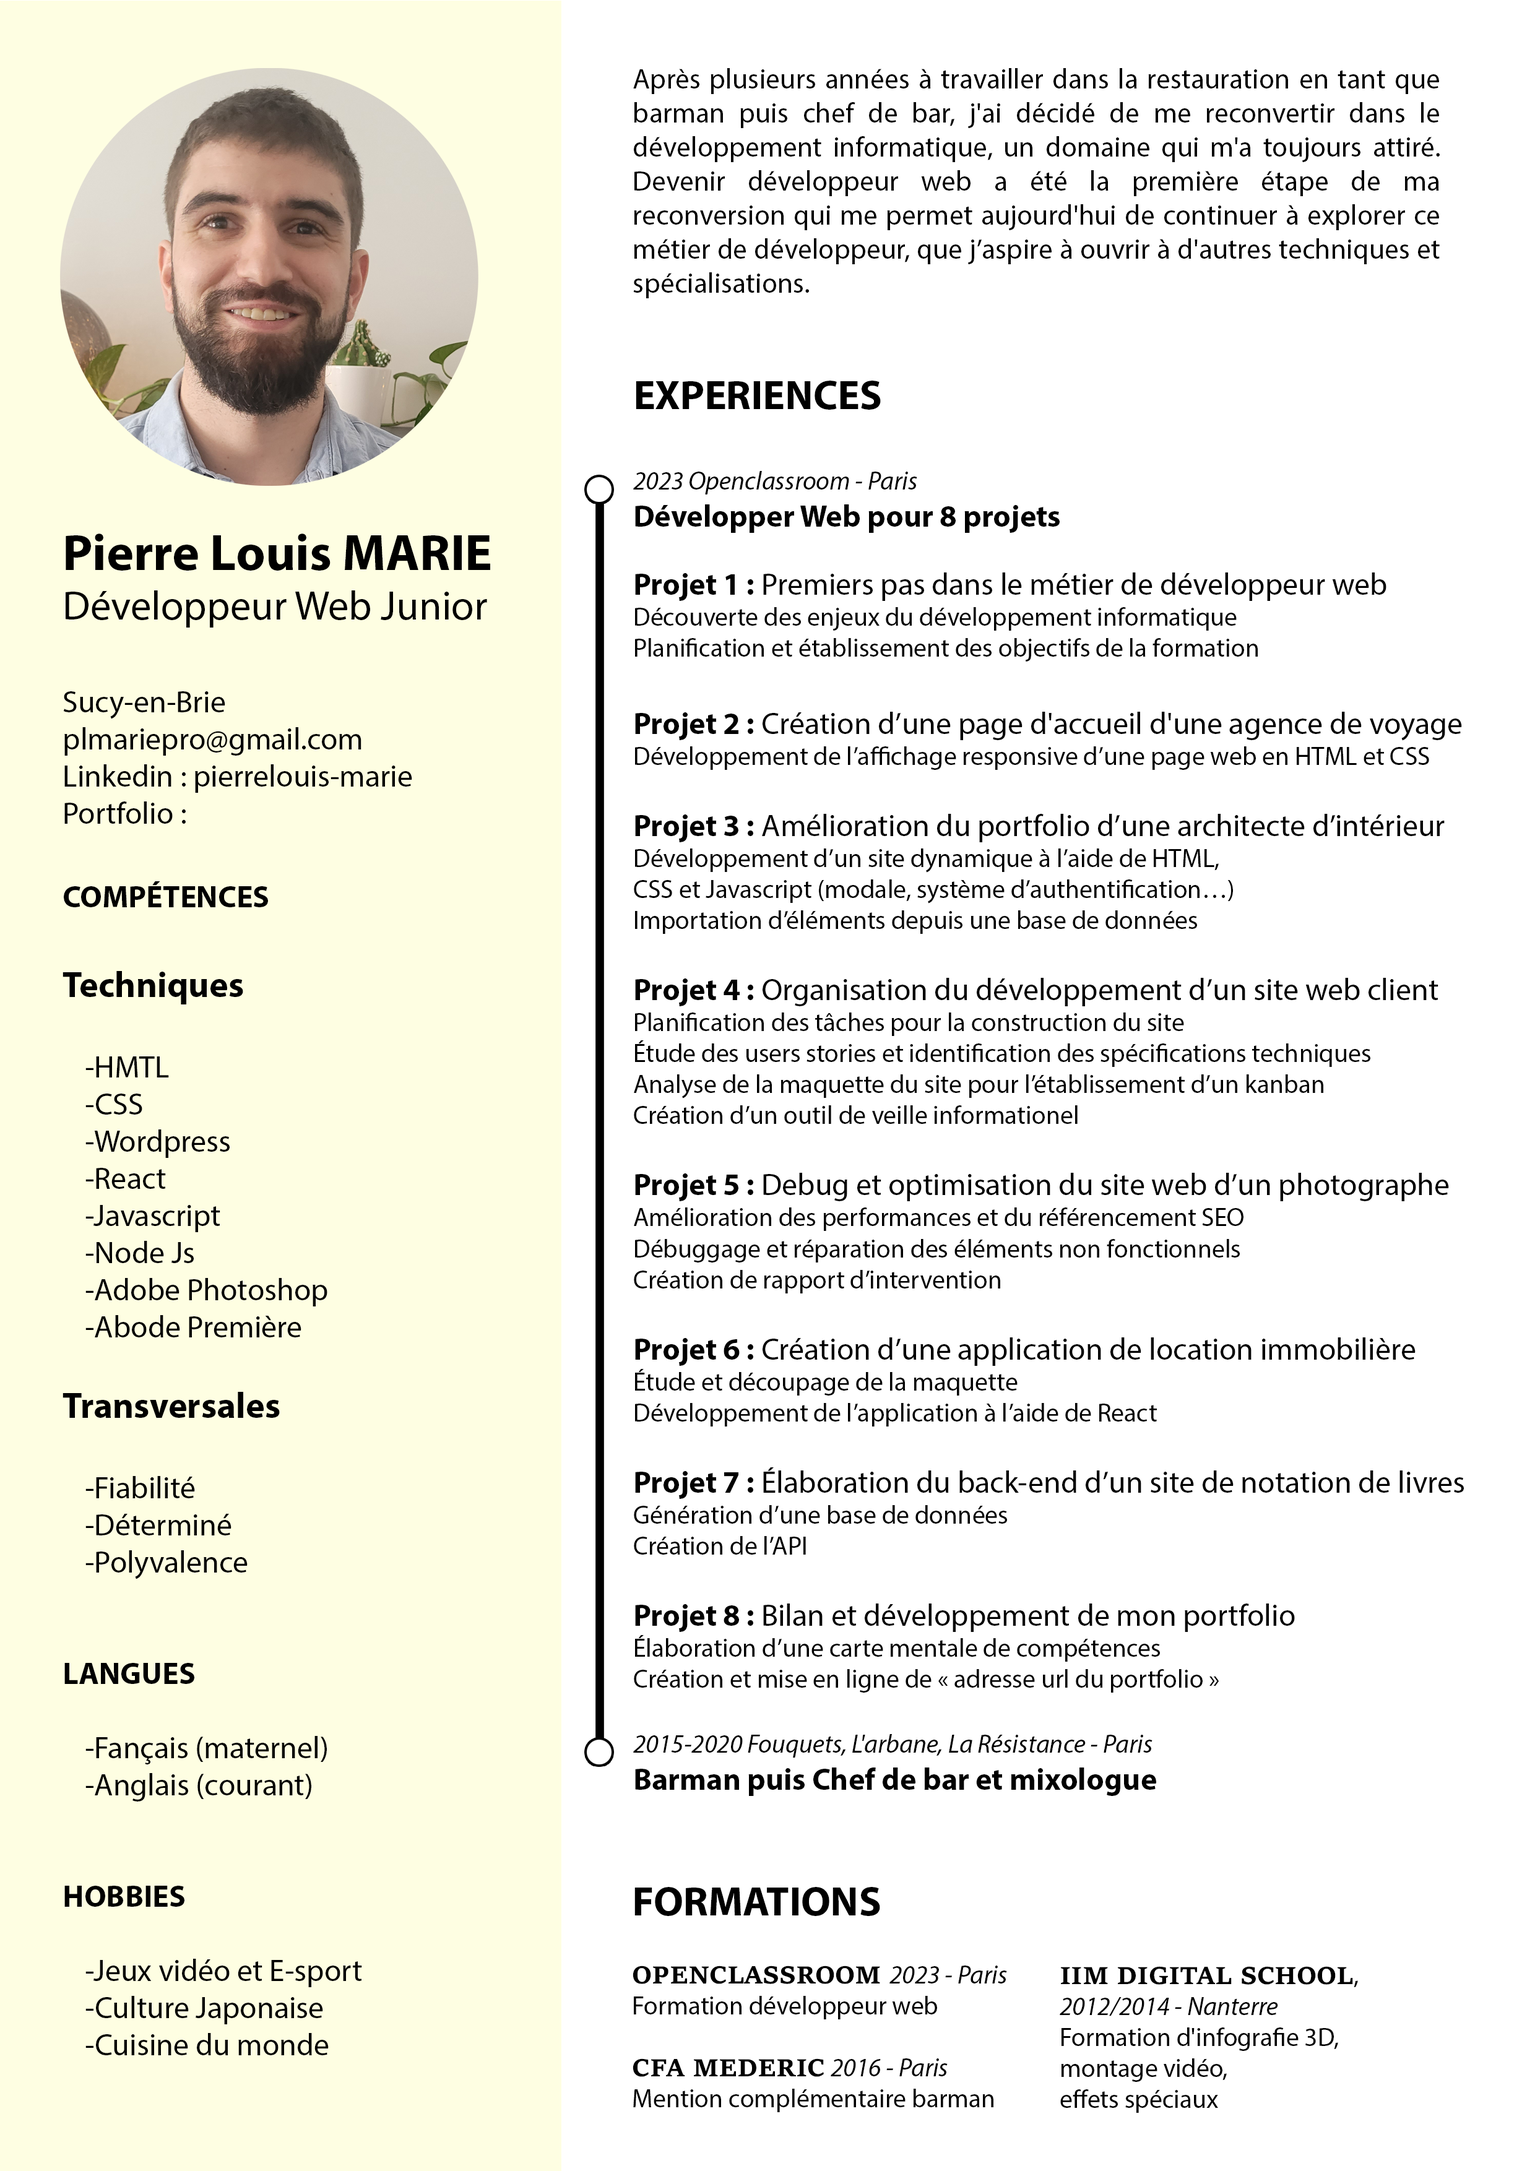
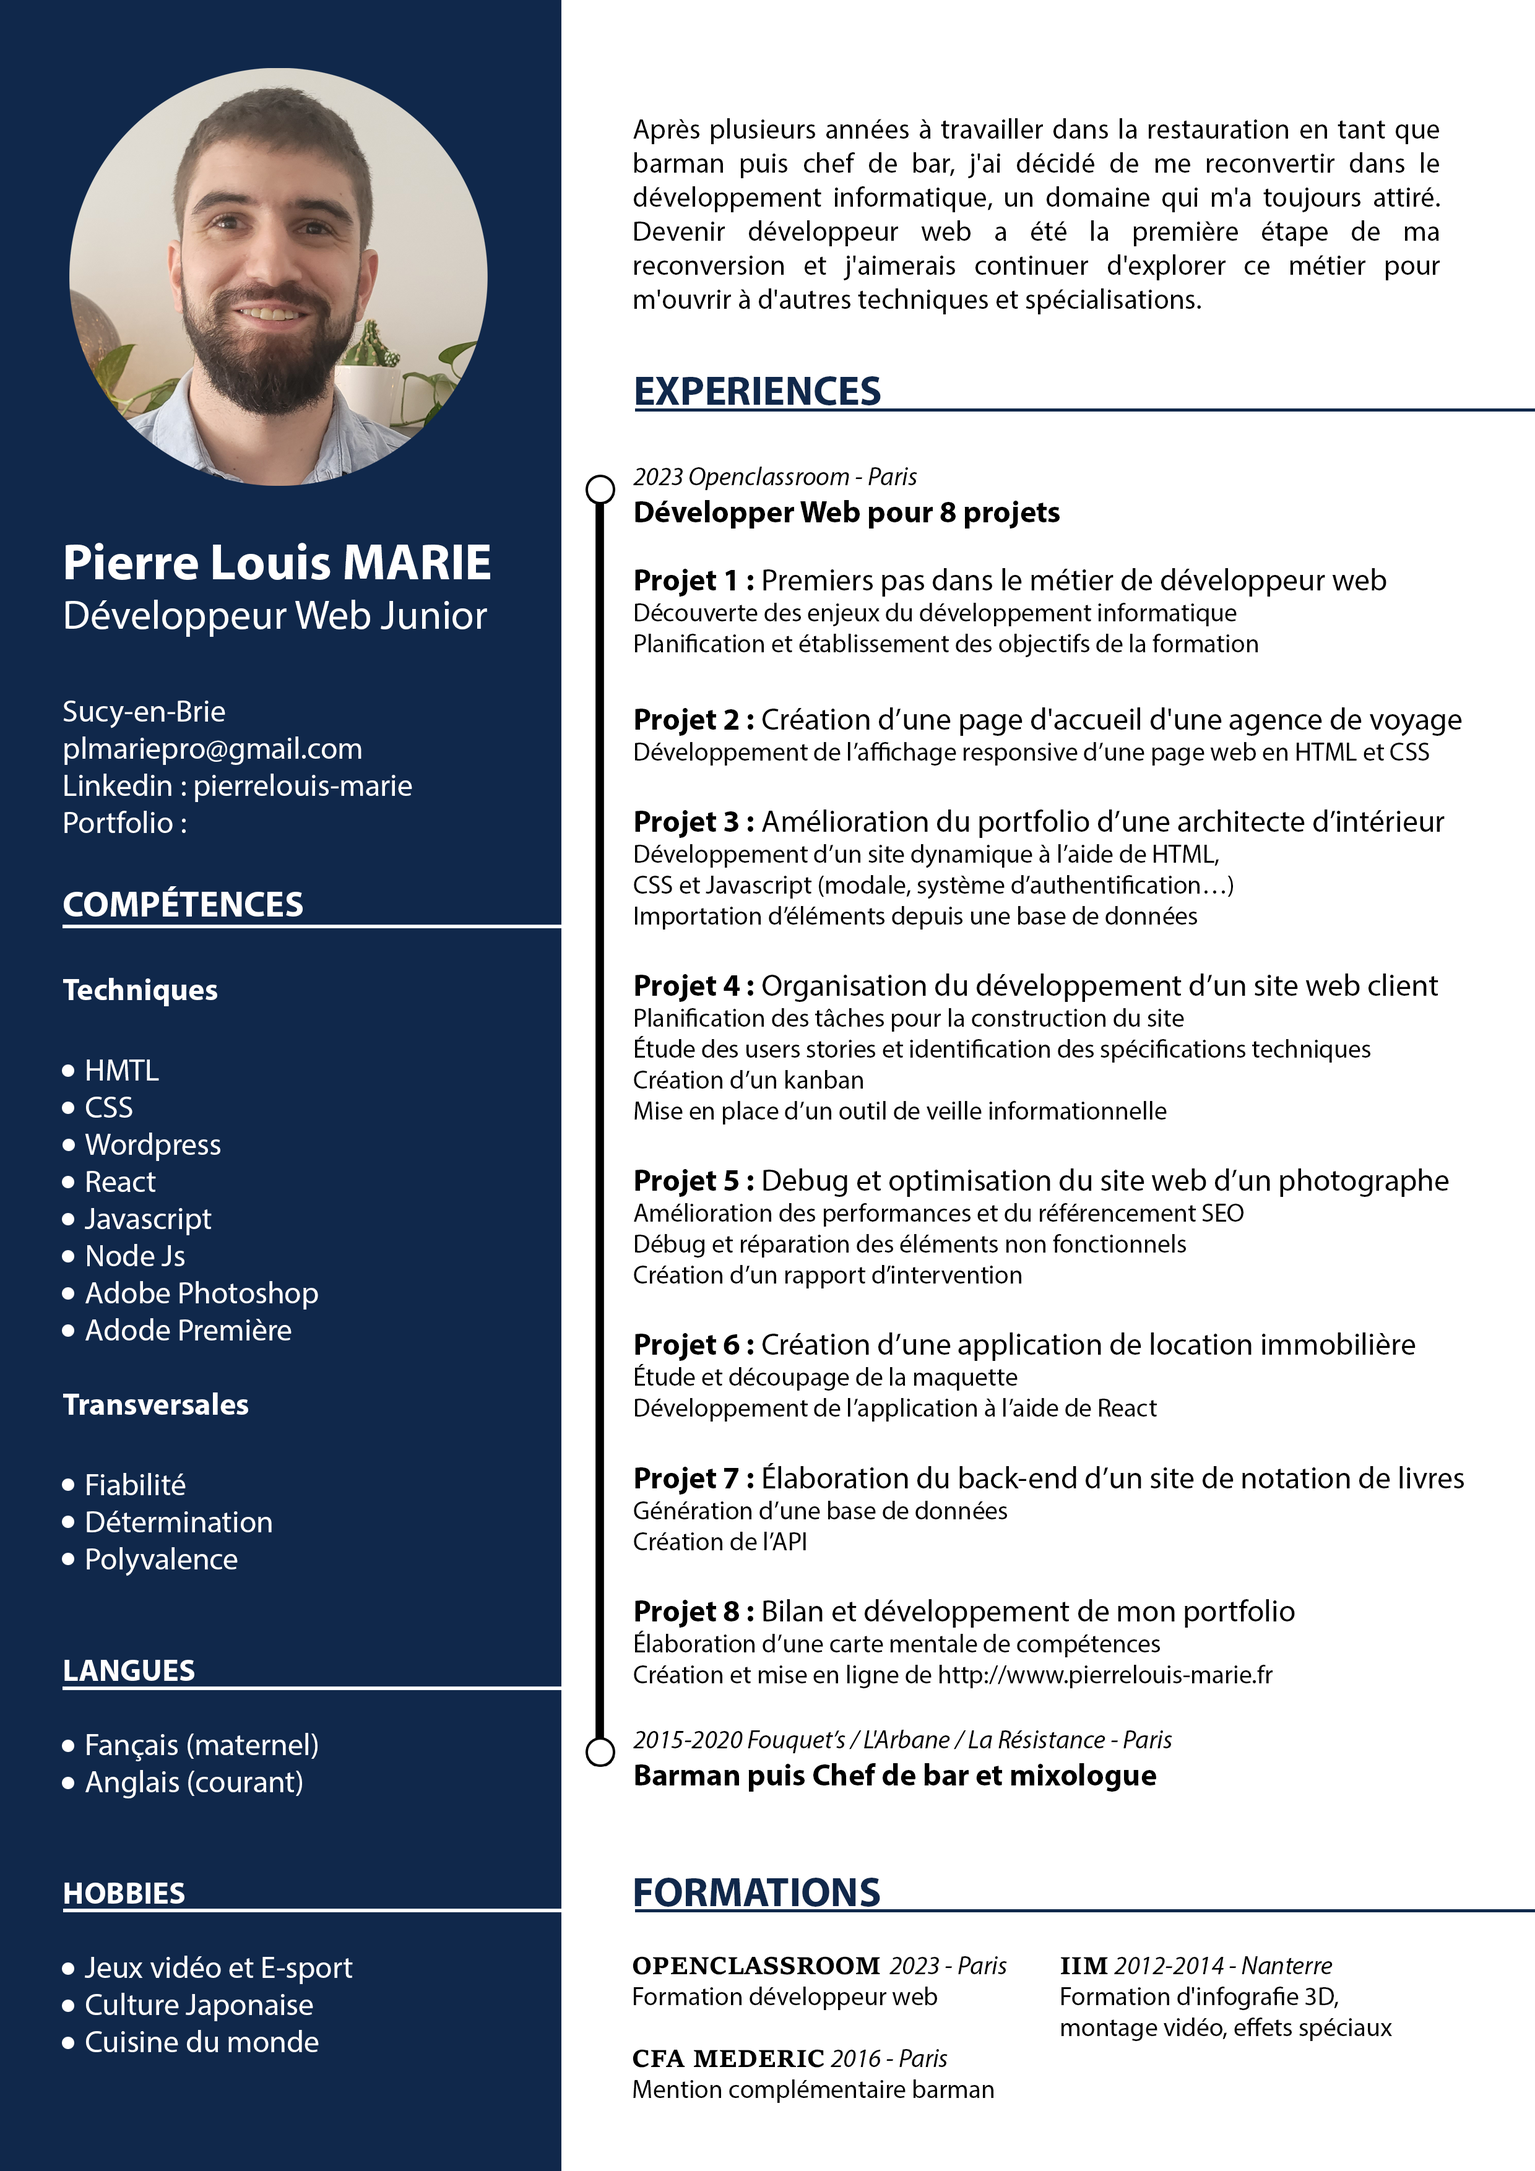
fix: content + css

diff --git a/index.html b/index.html
@@ -63,10 +63,10 @@
                 </div>
                 <div class="about-right">
                     <div class="me">
-                        <h3 class="title">A propos de moi:</h3>
-                        <p>Après plusieurs années à travailler dans la restauration en tant que barman puis chef de bar, j'ai décidé de me reconvertir dans le développement informatique, un domaine qui m'a toujours attiré. <br>
-                            Pour débuter dans cet univers , j’ai suivi la formation développeur web d'Openclassroom, qui m'a permis de découvrir certains langages du web, et leurs utilisation à travers huit projets : 2 d’entre-eux concernaient de la gestion et organisation de projet, les 5 suivants sont consultables ci-dessous (mettre lien qui amène direct au projet) et le 8ème est le site internet sur lequel vous lisez ces lignes.<br>
-                            Devenir développeur web a été la première étape de ma reconversion qui me permet aujourd'hui de continuer à explorer ce métier de développeur, que j’aspire à ouvrir à d'autres techniques et spécialisations. 
+                        <h3 class="title">À propos de moi :</h3>
+                        <p>Après plusieurs années à travailler dans la restauration en tant que barman puis chef de bar, j'ai décidé de me reconvertir dans le développement informatique, un domaine qui m'a toujours attiré.
+                            Pour débuter dans cet univers , j’ai suivi la formation développeur web d'Openclassroom, qui m'a permis de découvrir certains langages du web, et leurs utilisation à travers huit projets : 2 d’entre-eux concernaient de la gestion et organisation de projet, les 5 suivants sont consultables ci-dessous (mettre lien qui amène direct au projet) et le 8ème est le site internet sur lequel vous lisez ces lignes.
+                            Devenir développeur web a été la première étape de ma reconversion et j'aimerais continuer d'explorer ce métier pour m'ouvrir à d'autres techniques et spécialisations.
                         </p>
                     </div>
                     <div class="CV">
@@ -76,7 +76,7 @@
                 </div>
             </div>
             <div class="center">
-                    <h3 class="title">Mes compétences:</h3>
+                    <h3 class="title">Mes compétences :</h3>
                     <div class="Competences">
                         <div class="comp-icon">
                         <div class="pie animate no-round" style="--p:80;--c:#2081d8;">
@@ -110,7 +110,7 @@
     </div>
     <div id="Portofolio">
             <div class="container py-3">
-                <h3 class="title">Projets:</h3>
+                <h3 class="title">Projets :</h3>
                 <div class="gallery">
                     <div class="gallery-item">
                     <img alt="Image du site d'une librairie"
@@ -118,13 +118,13 @@
                         <div class="overlay">
                             <div class="description-text"> 
                                 <div class="descriptionZone">
-                                    <p class="title">Mon vieux grimoire</p>
-                                    <p>Élaboration du back-end d’un site de notation de livres<br>
+                                    <p><span class="title">MON VIEUX GRIMOIRE</span><br><span class="underTitle">Élaboration du back-end d’un site de notation de livres</span></p>
+                                    <p>
                                         Génération d’une base de données<br>
                                         Création de l’API</p>
                                 </div>
                                 <div class="techZone">
-                                    <p class="title">Technologies utilisées:</p>
+                                    <p>Technologies utilisées :</p>
                                     <div class="alltech">
                                     <span class="tech">Node Js</span><span class="tech">MongoDB</span>
                                     </div>
@@ -138,13 +138,13 @@
                             <div class="overlay">
                                 <div class="description-text"> 
                                     <div class="descriptionZone">
-                                        <p class="title">Kasa</p>
-                                        <p>Création d’une application de location immobilière <br>
+                                        <p><span class="title">KASA</span><br><span class="underTitle">Création d’une application de location immobilière </span></p>
+                                        <p>
                                             Étude et découpage de la maquette<br>
                                             Développement de l’application à l’aide de React</p>
                                     </div>
                                     <div class="techZone">
-                                            <p class="title">Technologies utilisées:</p>
+                                            <p>Technologies utilisées :</p>
                                             <div class="alltech">
                                                 <span class="tech">React</span>
                                             </div>
@@ -158,15 +158,15 @@
                         <div class="overlay">
                             <div class="description-text">
                                 <div class="descriptionZone">
-                                    <p class="title">Portfolio de Nina Carducci</p>
-                                    <p>Debug et optimisation du site web d’un photographe <br>
+                                    <p><span class="title">PORTFOLIO DE NINA CARDUCCI</span><br><span class="underTitle">Debug et optimisation du site web d’une photographe</span></p>
+                                    <p>
                                         Amélioration des performances et du référencement SEO<br>
-                                        Débuggage et réparation des éléments non fonctionnels <br>
-                                        Création de rapport d’intervention
+                                        Débug et réparation des éléments non fonctionnels <br>
+                                        Création d'un rapport d’intervention
                                     </p>
                                 </div>
                                 <div class="techZone">
-                                    <p class="title">Technologies utilisées:</p>
+                                    <p>Technologies utilisées :</p>
                                     <div class="alltech">
                                         <span class="tech">HTML 5</span> <span class="tech">CSS3</span> <span class="tech">Javascript</span>
                                         <span class="tech">Google Lighthouse</span> <span class="tech">Wave Evaluation tool</span>
@@ -181,13 +181,13 @@
                             <div class="overlay">
                                 <div class="description-text"> 
                                     <div class="descriptionZone">
-                                        <p class="title">Site vitrine Sophie Bluel</p>
-                                        <p>Amélioration du portfolio d’une architecte d’intérieur<br>
-                                            Développement d’un site dynamique à l’aide de HTML, CSS et Javascript (modale, système d’authentification…)<br>
+                                        <p><span class="title"> VITRINE DE SOPHIE BLUEL</span><br><span class="underTitle">Amélioration du portfolio d’une architecte d’intérieur</span></p>
+                                        <p>
+                                            Développement d’un site dynamique à l’aide de HTML, CSS et Javascript <br>(modale, système d’authentification…)<br>
                                             Importation d’éléments depuis une base de données</p>
                                     </div>
                                     <div class="techZone">
-                                        <p class="title">Technologies utilisées:</p>
+                                        <p>Technologies utilisées :</p>
                                         <div class="alltech">
                                             <span class="tech">HTML 5</span> <span class="tech">CSS3</span><span class="tech">Javascript</span>
                                         </div>
@@ -201,12 +201,12 @@
                         <div class="overlay">
                             <div class="description-text"> 
                                 <div class="descriptionZone">
-                                    <p class="title">Booki</p>
-                                    <p>Création d’une page d'accueil d'une agence de voyage <br>
-                                        Développement de l’affichage responsive d’une page web en langage HTML et CSS</p>
+                                    <p><span class="title">BOOKI</span><br><span class="underTitle">Création d’une page d'accueil d'une agence de voyage </span></p>
+                                    <p>
+                                        Développement de l’affichage responsive d’une page web HTML et CSS</p>
                                 </div>
                                 <div class="techZone">
-                                    <p class="title">Technologies utilisées:</p>
+                                    <p>Technologies utilisées :</p>
                                     <div class="alltech">
                                         <span class="tech">HTML 5</span> <span class="tech">CSS3</span>
                                     </div>
@@ -222,7 +222,7 @@
         <div class="container">
             <div class="form-container">
                 <strong class="title">Vous souhaitez me contacter? Une question?</strong>
-                <p> N’hésitez pas à m’écrire ! Je vous répondrais en moins de 24 heures.</p>
+                <p> N’hésitez pas à m’écrire ! Je vous répondrai en moins de 24 heures.</p>
                 <form id="contact-form" action="" method="post">
                     <label for="nom">Nom</label>
                     <input type="text" name="nom" id="nom" required>

diff --git a/assets/style.css b/assets/style.css
@@ -77,7 +77,7 @@ body {
 .title {
     text-align: center;
     font-size: 1.5em;
-    text-decoration: underline;
+    font-weight: bold;
 }
 
 .top-header {
@@ -107,6 +107,11 @@ body {
     font-weight: bold;
 }
 
+.top-header p {
+    font-size: 1.2em;
+    font-weight: bold;
+}
+
 .nav a {
     text-decoration: none;
     color: #000;
@@ -128,8 +133,7 @@ body {
     background-repeat: no-repeat;
     background-position: center;
     background-size: cover;
-    filter: blur(5px);
-    -webkit-filter: blur(2px);
+
 }
 
 .quote-text {
@@ -149,14 +153,12 @@ body {
 }
 
 .header h1 {
-    font-family: 'Indie Flower';
     letter-spacing: 2px;
     text-align: center;
 }
 
 .header p {
     font-size: 20px;
-    font-family: 'Indie Flower';
     letter-spacing: 2px;
     text-align: right;
 }
@@ -178,12 +180,21 @@ body {
     gap: 5%;
     background-color: #f8efed;
     padding-bottom: 20px;
+    padding-top: 30px;
 }
 
 .aboutDesc {
     display: flex;
     justify-content: center;
     gap: 20px;
+}
+
+.me h3 {
+    transform: translate(-170px);
+}
+
+.me p {
+    text-align: justify;
 }
 
 .about-me {
@@ -201,7 +212,7 @@ body {
     height: 300px;
     border-radius: 200px;
     object-fit: cover;
-    border: 3px solid black;
+    border: 3px solid #2081d8;
 }
 
 .about-right {
@@ -212,8 +223,6 @@ body {
     justify-content: center;
     row-gap: 15px;
 }
-
-.me {}
 
 .CV {
     display: flex;
@@ -245,6 +254,8 @@ body {
     align-items: center;
     justify-content: center;
     gap: 10px;
+    padding-top: 30px;
+    padding-bottom: 20px;
 }
 
 .Competences {
@@ -255,8 +266,8 @@ body {
     flex-wrap: wrap;
     gap: 25px;
     row-gap: 25px;
-    width: 80%;
-    padding-bottom: 15px;
+    padding-top: 20px;
+    padding-bottom: 20px;
 }
 
 #Portofolio {
@@ -274,6 +285,7 @@ body {
     flex-wrap: wrap;
     align-items: center;
     justify-content: center;
+    padding-bottom: 30px;
 }
 
 .gallery-item {
@@ -297,21 +309,22 @@ body {
     left: 0;
     width: 100%;
     height: 100%;
-    background-color: rgba(0, 0, 0, 0.7);
+    background-color: rgba(0, 0, 0, 0.8);
     opacity: 1;
     transition: opacity 0.3s ease;
     border-radius: 15px;
 }
 
-.gallery-item:hover {
-    border: #000 solid 3px;
+.gallery-item:hover .overlay {
+    opacity: 0;
 }
 
-/* .gallery-item:hover .overlay {
-    opacity: 0;
-} */
+.underTitle {
+    font-size: 1.3em;
+}
 
 .description-text {
+    transform: translate(0px, 50px);
     text-align: center;
     color: white;
     font-size: 1em;
@@ -339,7 +352,7 @@ body {
     display: flex;
     justify-content: center;
     background-color: #f8efed;
-    padding-top: 10px;
+    padding-top: 20px;
 }
 
 
@@ -351,6 +364,7 @@ form {
 }
 
 form input {
+    border-radius: 25px;
     width: 100%;
     background-color: white;
     border: solid 1px;
@@ -359,6 +373,7 @@ form input {
 }
 
 form textarea {
+    border-radius: 25px;
     width: 100%;
     background-color: white;
     border: solid 1px;
@@ -391,6 +406,10 @@ input[type="submit"]:hover {
         font-size: 20px;
     }
 
+    .me h3 {
+        transform: translate(0px);
+    }
+
     .quote-text {
         transform: translate(-65%, -0%);
     }
@@ -402,6 +421,14 @@ input[type="submit"]:hover {
         padding-top: 10px;
         padding-bottom: 10px;
         row-gap: 15px;
+    }
+
+    .aboutDesc {
+        display: flex;
+        flex-direction: column;
+        justify-content: center;
+        align-items: center;
+        gap: 20px;
     }
 
     .nav ul {
@@ -456,14 +483,6 @@ input[type="submit"]:hover {
         transform: translate(-62%, -30%);
     }
 
-    .aboutDesc {
-        display: flex;
-        flex-direction: column;
-        justify-content: center;
-        align-items: center;
-        gap: 20px;
-    }
-
     .about-right {
         row-gap: 15px;
     }
@@ -505,6 +524,7 @@ input[type="submit"]:hover {
     }
 
     .description-text {
+        transform: none;
         display: flex;
         gap: 5px;
         padding: 10px;
